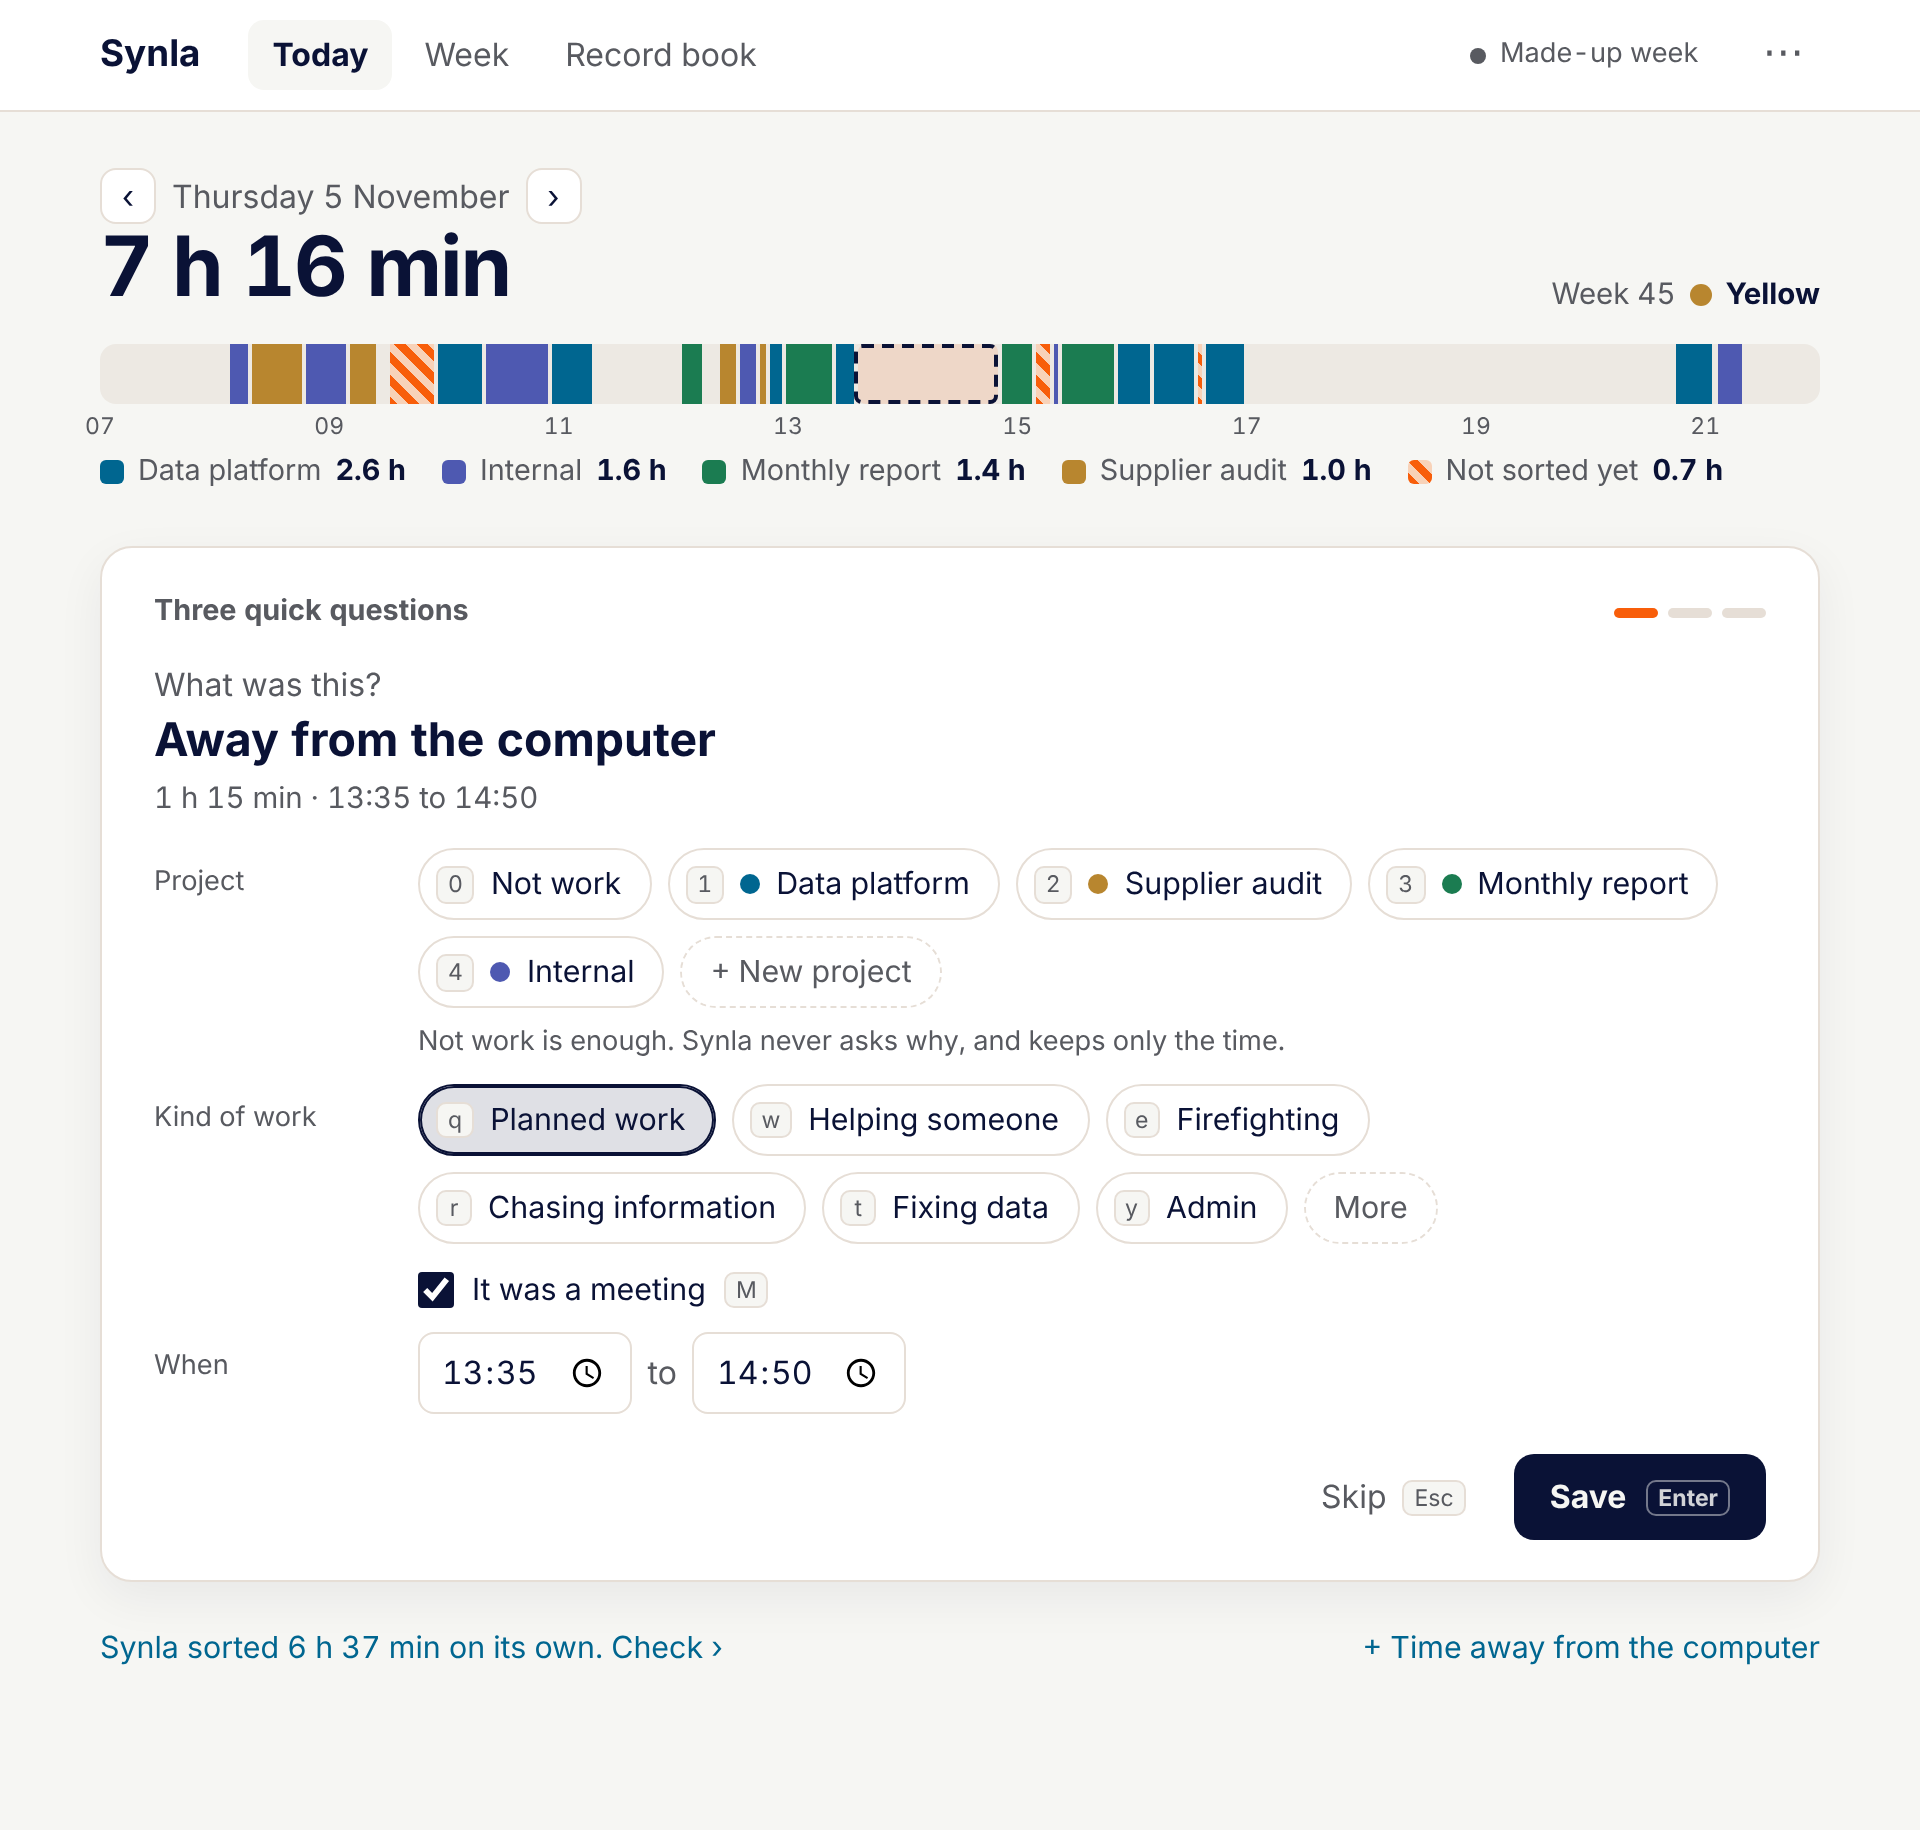
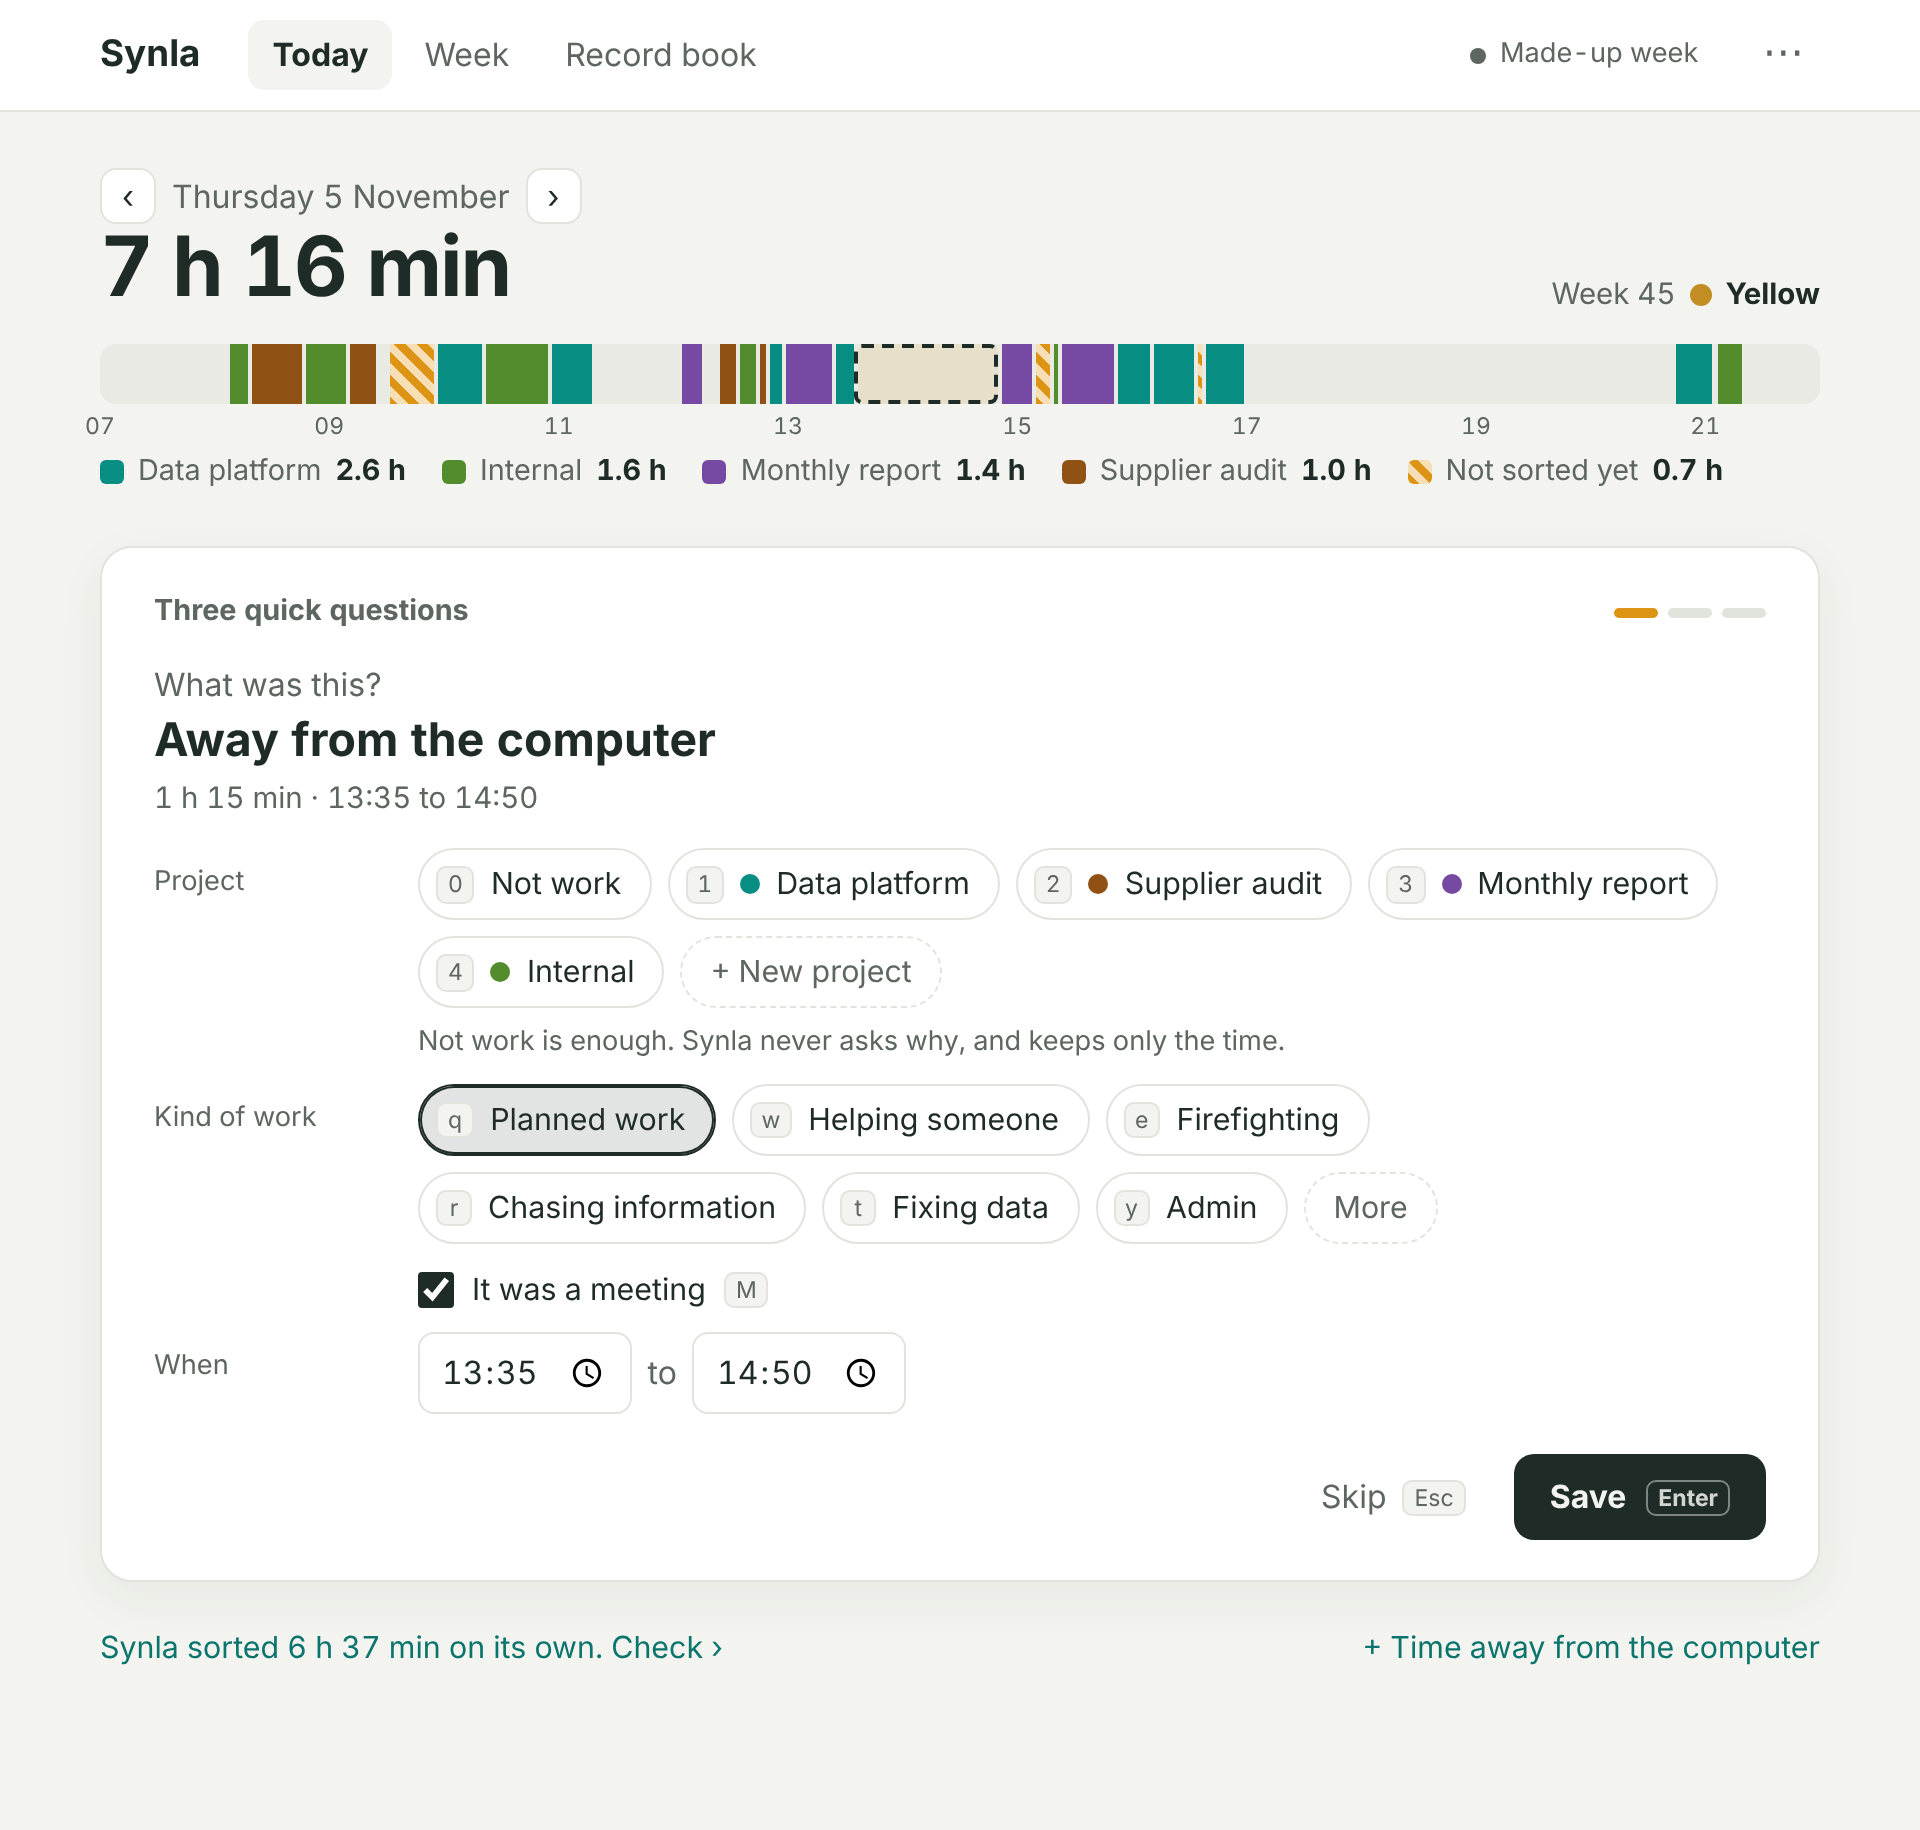
Synla 0.7.2: south coast beach colours
Sand and rock by day, warm dark rock at night, no navy. Project colours: sea glass, driftwood, heather, marram grass, sea pinks, lichen, fjord and rose hips, checked for colour blindness in both modes.

diff --git a/synla/server.py b/synla/server.py
@@ -34,22 +34,22 @@ APPS = {"excel.exe": "Excel", "winword.exe": "Word", "powerpnt.exe": "PowerPoint
         "explorer.exe": "File Explorer", "notepad.exe": "Notepad", "onenote.exe": "OneNote", "acrobat.exe": "Acrobat",
         "acrord32.exe": "Acrobat", "slack.exe": "Slack", "zoom.exe": "Zoom", "ssms.exe": "SQL Server Management Studio",
         "devenv.exe": "Visual Studio"}
-PALETTE = 8      # the colours of Solvi and unadata.dev; checked for colour blindness in light and dark mode
+PALETTE = 8      # a Norwegian beach: sea glass, driftwood, heather, marram grass, sea pinks, lichen, fjord, rose hips
 HEX = re.compile(r"^#[0-9a-fA-F]{6}$")
 NOT_SORTED = "Not sorted"
 
 CSS = """
-:root{--paper:#f6f6f3;--surface:#fff;--ink:#0a1236;--muted:#585a60;--line:#e6ded6;--track:#ede9e3;--sea:#006690;
- --sun:#f85e0a;--sunink:#bb4812;--hatch:#f8d2b8;--amber:#f0aa2a;--ochre:#b8862f;--ochreink:#835a0d;--green:#2f7a55;--red:#b23a2a;
- --shadow:#0a12360f;--toastlink:#f0aa2a;--pillbg:#f7e6da;--pillink:#9b3a0d;--yellowbg:#f9f4ec;--yellowline:#e6d5b6;--greenbg:#eef4f1;
- --greenline:#c1d7cc;--redbg:#faf1f0;--redline:#e9c8c3;
- --p0:#006690;--p1:#b8862f;--p2:#1b7c51;--p3:#4e59b1;--p4:#b23a2a;--p5:#119391;--p6:#f85e0a;--p7:#953d7c;
+:root{--paper:#f3f4ef;--surface:#fff;--ink:#1f2b26;--muted:#5d665f;--line:#e1e4dc;--track:#e8eae3;--sea:#0b746c;
+ --sun:#dd9314;--sunink:#8a5601;--hatch:#f7deb5;--amber:#f0b43c;--ochre:#c28e24;--ochreink:#7c5500;--green:#3f7a3c;--red:#b8352a;
+ --shadow:#1f2b260f;--toastlink:#f0b43c;--pillbg:#f9e9ce;--pillink:#7c5500;--yellowbg:#faf6ed;--yellowline:#ead7b2;--greenbg:#f0f4ef;
+ --greenline:#c5d7c5;--redbg:#faf1f0;--redline:#ebc6c3;
+ --p0:#078d82;--p1:#8f5214;--p2:#764aa2;--p3:#538c2d;--p4:#b04c7d;--p5:#bd8703;--p6:#006cb4;--p7:#ab4238;
  color-scheme:light}
-@media (prefers-color-scheme:dark){:root{--paper:#080f2c;--surface:#111c44;--ink:#ece5d4;--muted:#9eabb7;--line:#222d5a;
- --track:#1a2550;--sea:#5fb3d3;--sun:#fa7a32;--sunink:#fa7a32;--ochre:#d8a64e;--ochreink:#d8a64e;--green:#6cc196;--red:#e46a54;
- --shadow:#00000040;--toastlink:#9b3a0d;--pillbg:#462312;--pillink:#ffb48a;--hatch:#5d2f19;--yellowbg:#31240e;--yellowline:#5a431a;
- --greenbg:#132c20;--greenline:#28523c;--redbg:#371b17;--redline:#6a372f;
- --p0:#1091c9;--p1:#be861d;--p2:#30a46f;--p3:#6d7cdf;--p4:#e46a54;--p5:#15a7a5;--p6:#cd5702;--p7:#bf5da2;
+@media (prefers-color-scheme:dark){:root{--paper:#171a18;--surface:#202421;--ink:#ece8de;--muted:#a3a89f;--line:#353a35;
+ --track:#2a2e2a;--sea:#4fbfb0;--sun:#eba941;--sunink:#eba941;--ochre:#d9a850;--ochreink:#d9a850;--green:#8cc68a;--red:#ee7b6b;
+ --shadow:#00000059;--toastlink:#7c5500;--pillbg:#3c2a0e;--pillink:#edbf71;--hatch:#5e4216;--yellowbg:#31240e;--yellowline:#5a431a;
+ --greenbg:#1c2b18;--greenline:#365030;--redbg:#371b18;--redline:#6a3730;
+ --p0:#0aa99b;--p1:#b06f35;--p2:#9a6ec9;--p3:#6ca649;--p4:#d16b9b;--p5:#bf8909;--p6:#328bd6;--p7:#d4675b;
  color-scheme:dark}}
 *{box-sizing:border-box}
 body{margin:0;background:var(--paper);color:var(--ink);font:16px/1.45 "Segoe UI",-apple-system,BlinkMacSystemFont,Inter,system-ui,sans-serif;
@@ -188,7 +188,7 @@ ul.plain{margin:6px 0;padding-left:20px}ul.plain li{margin:4px 0}
 .good{color:var(--green);font-weight:700}.bad{color:var(--red);font-weight:700}
 .offscreen{position:absolute;left:-9999px;width:1px;height:1px}
 #toast{position:fixed;left:50%;bottom:24px;transform:translate(-50%,20px);opacity:0;pointer-events:none;background:var(--ink);color:var(--paper);
- border-radius:12px;padding:11px 16px;display:flex;gap:16px;align-items:center;box-shadow:0 12px 32px #0a123640;transition:.2s;z-index:30;max-width:92vw}
+ border-radius:12px;padding:11px 16px;display:flex;gap:16px;align-items:center;box-shadow:0 12px 32px #00000040;transition:.2s;z-index:30;max-width:92vw}
 #toast.show{opacity:1;transform:translate(-50%,0);pointer-events:auto}#toast button{background:none;border:0;color:var(--toastlink);font-weight:700;cursor:pointer}
 @media (max-width:720px){.top .in{gap:8px;padding:10px 12px}nav a{padding:6px 7px;font-size:.92rem}.brand{font-size:1rem}.rec span{display:none}main{padding:20px 14px 80px}
  .row{grid-template-columns:1fr;gap:6px}.lab{padding-top:0}.hint{margin-left:0}.ask{padding:18px 16px}.two{grid-template-columns:1fr}

diff --git a/synla/__init__.py b/synla/__init__.py
@@ -1,2 +1,2 @@
 """Synla: logs your hours from what you actually did, and makes the unplanned work visible."""
-__version__ = "0.7.1"
+__version__ = "0.7.2"
